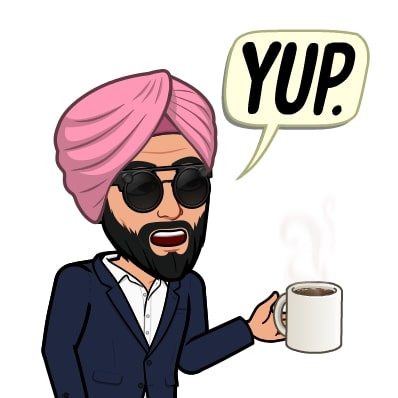
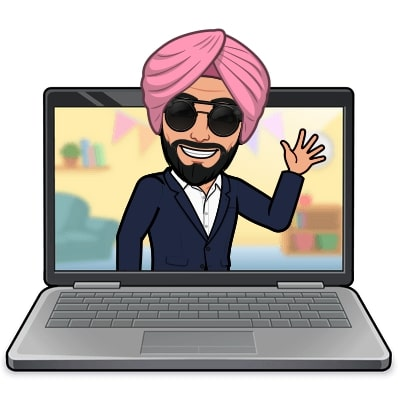
updated hero and header

diff --git a/assets/style.css b/assets/style.css
@@ -19,7 +19,10 @@
       color: #eab676;
   }
 
-  
+  h2 {
+      font-weight: bold;
+      font-size: 40px;
+  }
   /*header*/
 
   header {
@@ -42,7 +45,7 @@
   }
 
   header nav {
-    margin: 7px 0;
+    margin: 5px 0;
   }
 
   header nav ul {
@@ -60,35 +63,43 @@
   }
 
   header nav ul li a:hover {
-    font-size: 2.5vw ;
+    font-size: 2vw ;
     font-weight: bolder;
     color: #eab676;
     text-shadow: none;
   }
 
   /*avatar*/
-  .avatar{
-      margin: 80px;
+
+  .avatar {
+    width: 400px;
+    height: 400px;
+    background: url("./images/hero.jpg") no-repeat;
+    margin: 70px auto 70px auto;
+    border-radius: 50%;
+    background-position: center;
+    background-size: cover;
+    border: solid 8px #eab676;
+    display: flex;
+    flex-wrap: wrap;
+}
+.avatar:hover {
+    background: url("./images/hover.jpg") no-repeat;
+    width: 400px;
+    height: 400px;
+    background-position: center;
+    background-size: contain;
+}
+  
+  .primary-heading{
+      text-align: center;
+      font-weight: bold;
+      font-size: larger;
+    
   }
 
-.img {
-      border-radius: 50%;
-      display: block;
-      margin-left: auto;
-      margin-right: auto;
-      width: 30%;
-      border: solid 5px #eab676;
-  }
-  .img :hover{
-      background-image: url(./images/hover.jpg);
-      border-radius: 50%;
-      display: block;
-      margin-left: auto;
-      margin-right: auto;
-      width: 30%;
-      border: solid 5px #eab676;
 
-  }
+
 
 
 

diff --git a/index.html b/index.html
@@ -33,11 +33,11 @@
         </nav>
     </header>
     <div class="avatar">
-        <img class="img" src=./assets/images/hero.jpg alt="">
+        <!-- <img class="img" src=./assets/images/hero.jpg alt=""-->
     </div>
     <section class="about-me">
         <div class="primary-heading">
-            <h2> &#128075;HELLO!</h2>
+            <h2> &#128075;HELLO THERE!</h2>
         </div>
         <p>
             Lorem ipsum dolor sit amet consectetur adipisicing elit. Eligendi laudantium deserunt magnam harum sunt
